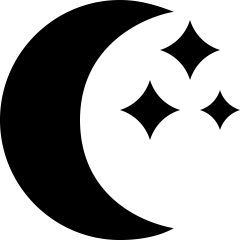
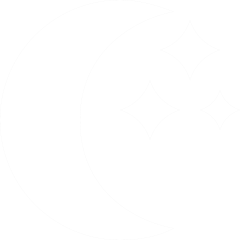
added dark mode

diff --git a/src/components/countriesSlice.js b/src/components/countriesSlice.js
@@ -1,6 +1,7 @@
 import { createSlice, nanoid, createAsyncThunk } from "@reduxjs/toolkit";
 // import { sub } from 'date-fns';
 import axios from "axios";
+const _ = require("lodash");
 
 const COUNTRIES_URL = 'https://restcountries.com/v3.1/all';
 
@@ -11,7 +12,7 @@ const initialState = {
     nameFilter: "",
     status: 'idle', //'idle' | 'loading' | 'succeeded' | 'failed'
     error: null,
-    darkMode: false,
+    darkMode: "light",
 
 }
 
@@ -26,7 +27,14 @@ const countriesSlice = createSlice({
     reducers: {
 
         darkModeToggle(state) {
-            state.darkMode = !state.darkMode
+            if(state.darkMode === 'light')
+            {
+                state.darkMode = 'dark'
+            }
+            else if (state.darkMode === 'dark')
+            {
+                state.darkMode = 'light'
+            }
         },
 
         searchByName(state,action) {
@@ -41,6 +49,8 @@ const countriesSlice = createSlice({
             state.countriesFiltered = state.countries.filter(country =>
                 country.name.toLowerCase().includes(state.nameFilter.toLowerCase()) &&
                 (state.regionFilter ==="" || country.region === state.regionFilter))
+
+            state.countriesFiltered = _.sortBy(state.countriesFiltered, ['name'])
         },
 
 
@@ -74,7 +84,7 @@ const countriesSlice = createSlice({
                 }))
 
                 state.countries = state.countries.concat(fetchedCountries)
-                state.countriesFiltered = state.countries
+                state.countriesFiltered = _.sortBy(state.countries, ['name'])
 
             })
             .addCase(fetchCountries.rejected, (state, action) => {

diff --git a/src/components/Navbar.js b/src/components/Navbar.js
@@ -11,16 +11,17 @@ const Navbar = () => {
     const darkMode = useSelector((state) => state.countries.darkMode)
 
     const darkModeHandler = () => {
+
         dispatch(darkModeToggle())
     }
 
     return (
 
-        <div className={classes.navbar} onClick={darkModeHandler}>
+        <div className={classes.navbar} data-theme={darkMode}>
             <p className={classes.navbar__title}>Where in the world?</p>
-            <div className={classes.navbar__darkmode}>
-                <img  src={darkMode? moonFull : moonEmpty} alt="" className={classes.darkmode__logo}/>
-                <p  className={classes.darkmode__title}>{darkMode? "Dark Mode" : "Day Mode"}</p>
+            <div className={classes.navbar__darkmode} onClick={darkModeHandler}>
+                <img  src={(darkMode === 'light')? moonEmpty : moonFull } alt="" className={classes.darkmode__logo}/>
+                <p  className={classes.darkmode__title}>{(darkMode === 'light')? "Day Mode" : "Dark Mode"}</p>
             </div>
         </div>
     )

diff --git a/src/components/SingleCountry.module.css b/src/components/SingleCountry.module.css
@@ -1,3 +1,17 @@
+:root {
+    --background_card: white;
+    --text-primary: #000;
+    --shadow-color: rgba(0, 0, 0, 0.19)
+
+}
+
+[data-theme='dark'] {
+    --background_card: rgba(14, 14, 14, 0.77);
+    --text-primary: #fff;
+    --shadow-color: rgba(255, 255, 255, 0.24)
+}
+
+
 .card {
     display: flex;
     flex-direction: column;
@@ -5,10 +19,10 @@
     align-items: flex-start;
     margin: 2rem;
     border-radius: 5px;
-    /*border: 1px solid black;*/
+    color: var(--text-primary);
     overflow: hidden;
-    background-color: white;
-    box-shadow: 0 4px 8px 0 rgba(0, 0, 0, 0.2), 0 6px 20px 0 rgba(0, 0, 0, 0.19);
+    background-color: var(--background_card);
+    box-shadow: 0 4px 8px 0 rgba(0, 0, 0, 0.2), 0 6px 20px 0 var(--shadow-color);
     width: 400px;
 }
 

diff --git a/src/components/Navbar.module.css b/src/components/Navbar.module.css
@@ -1,10 +1,29 @@
+:root {
+    --background: white;
+    --text-primary: #000;
+    --text-secondary: #8e05c2;
+    --accent: #8e05c2;
+    --border: #333;
+    --form-bg: #fff;
+}
+
+[data-theme='dark'] {
+    --background: #000;
+    --text-primary: #fff;
+    --text-secondary: #8e05c2;
+    --accent: #8e05c2;
+    --border: #808080;
+    --form-bg: #191919;
+}
+
 .navbar {
     display: flex;
     flex-direction: row;
     flex-wrap: wrap;
     justify-content: space-between;
     align-items: center;
-    background-color: white;
+    background-color: var(--background);
+    color: var(--text-primary);
     border-bottom: solid 2px lightgray;
     box-shadow: 0 2px 2px 0 rgba(0, 0, 0, 0.1);
     width: 100%

diff --git a/src/components/SingleCountry.js b/src/components/SingleCountry.js
@@ -1,4 +1,5 @@
 import classes from "./SingleCountry.module.css"
+import {useSelector} from "react-redux";
 
 const SingleCountry = (props) => {
 
@@ -8,8 +9,10 @@ const SingleCountry = (props) => {
     const region = props.region
     const capital = props.capital
 
+    const darkMode = useSelector((state) => state.countries.darkMode)
+
     return (
-        <div className={classes.card}>
+        <div className={classes.card} data-theme={darkMode}>
             <img src={flag} alt="" className={classes.flag}/>
 
             <div className={classes.card__desc}>

diff --git a/src/components/AllCountries.js b/src/components/AllCountries.js
@@ -3,17 +3,17 @@ import {useDispatch, useSelector} from "react-redux";
 
 import SingleCountry from "./SingleCountry";
 import classes from "./AllCountries.module.css"
-
 const AllCountries = () => {
 
 
     const countries = useSelector(state => state.countries.countriesFiltered)
 
+
+
     return (
 
         <Fragment>
-
-            <div className={classes.container}>
+            <div className={classes.container} >
                 {countries.map((input) => (
                     <SingleCountry
                     name={input.name}

diff --git a/src/components/Layout.module.css b/src/components/Layout.module.css
@@ -3,4 +3,23 @@
     flex-direction: column;
     justify-content: center;
     align-items: center;
+    background-color: var(--background);
+}
+
+:root {
+    --background: whitesmoke;
+    --text-primary: #000;
+    --text-secondary: #8e05c2;
+    --accent: #8e05c2;
+    --border: #333;
+    --form-bg: #fff;
+}
+
+[data-theme='dark'] {
+    --background: rgba(41, 41, 41, 1);
+    --text-primary: #fff;
+    --text-secondary: #8e05c2;
+    --accent: #8e05c2;
+    --border: #808080;
+    --form-bg: #191919;
 }

diff --git a/src/components/Layout.js b/src/components/Layout.js
@@ -7,13 +7,13 @@ import {useSelector} from "react-redux";
 
 const Layout = () => {
 
-
+    const darkMode = useSelector((state) => state.countries.darkMode)
 
 
     return (
         <Fragment>
             <Navbar />
-            <div className={classes.content}>
+            <div className={classes.content} data-theme={darkMode}>
                 <Searchbar/>
                 <main>
                     <Outlet/>

diff --git a/src/components/Searchbar.module.css b/src/components/Searchbar.module.css
@@ -49,3 +49,19 @@ select {
     /*height: 1rem*/
 ;
 }
+
+@media screen and (max-width:900px) {
+
+    .searchbar {
+        width: 100%;
+        justify-content: center;
+    }
+
+    .searchbar__searchpad {
+        width: 100%;
+    }
+
+    .searchbar__dropdown{
+        width: 100%;
+    }
+}

diff --git a/src/index.css b/src/index.css
@@ -1,3 +1,5 @@
+
+
 *{
   box-sizing: border-box;
   margin: 0;
@@ -7,11 +9,7 @@
 }
 
 body {
-  background-color: whitesmoke;
-  /*display: flex;*/
-  /*flex-direction: column;*/
-  /*justify-content: center;*/
-  /*align-items: center;*/
+
 }
 
 

diff --git a/src/components/AllCountries.module.css b/src/components/AllCountries.module.css
@@ -1,3 +1,4 @@
+
 .container {
     width: 100%;
     margin: 0 auto;
